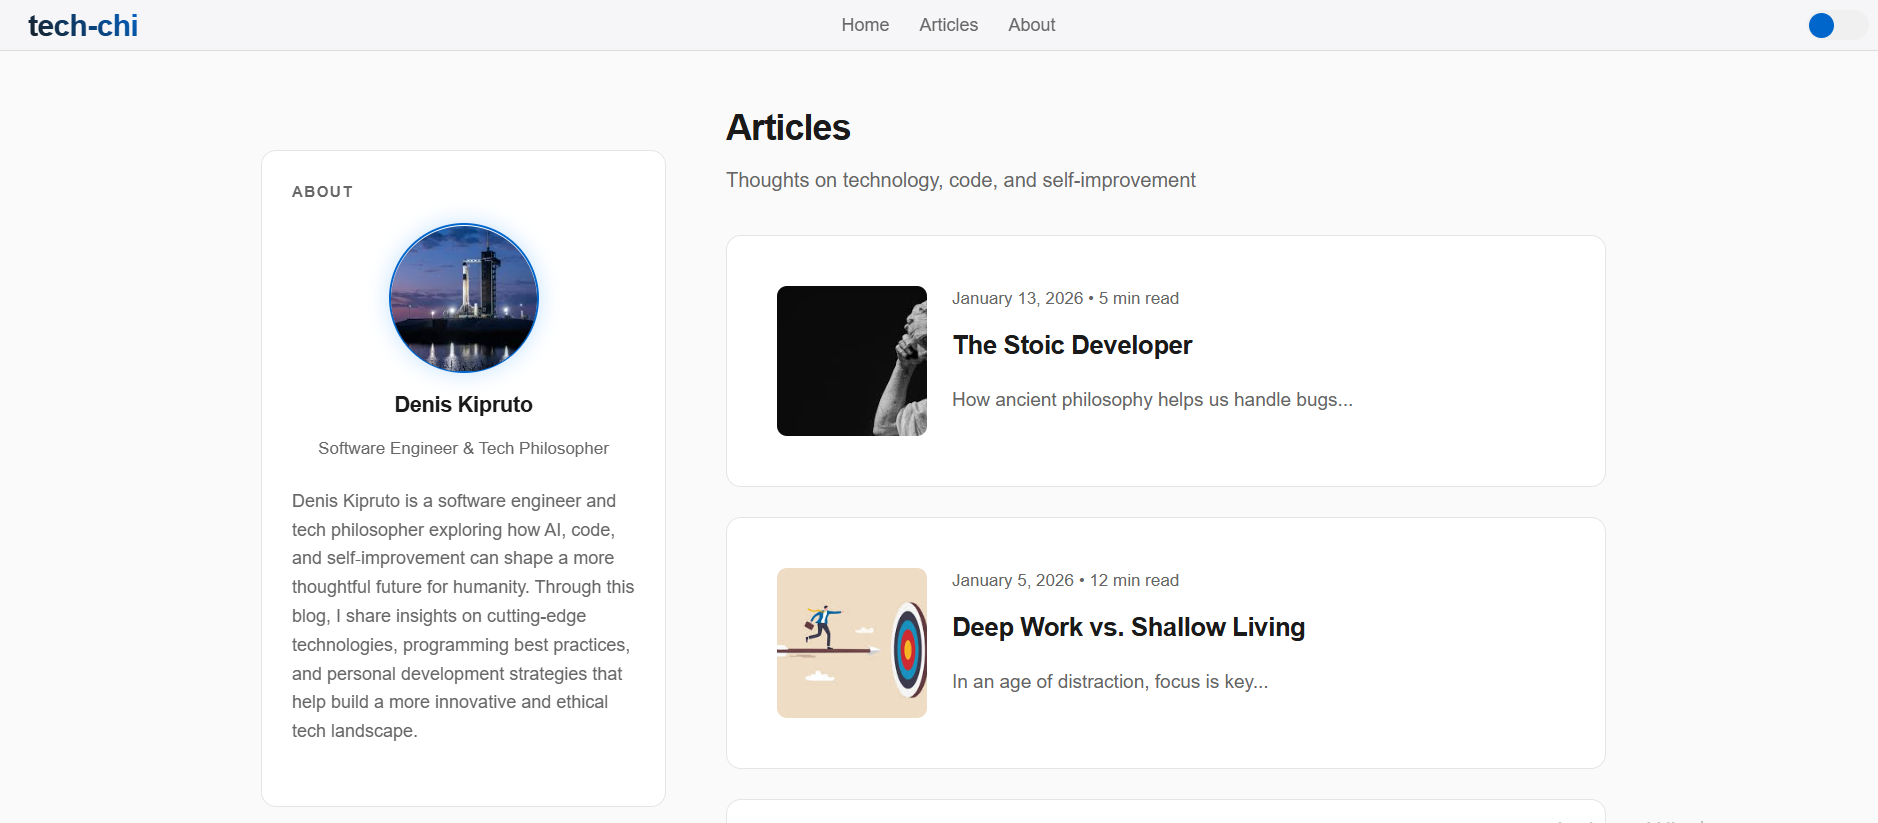
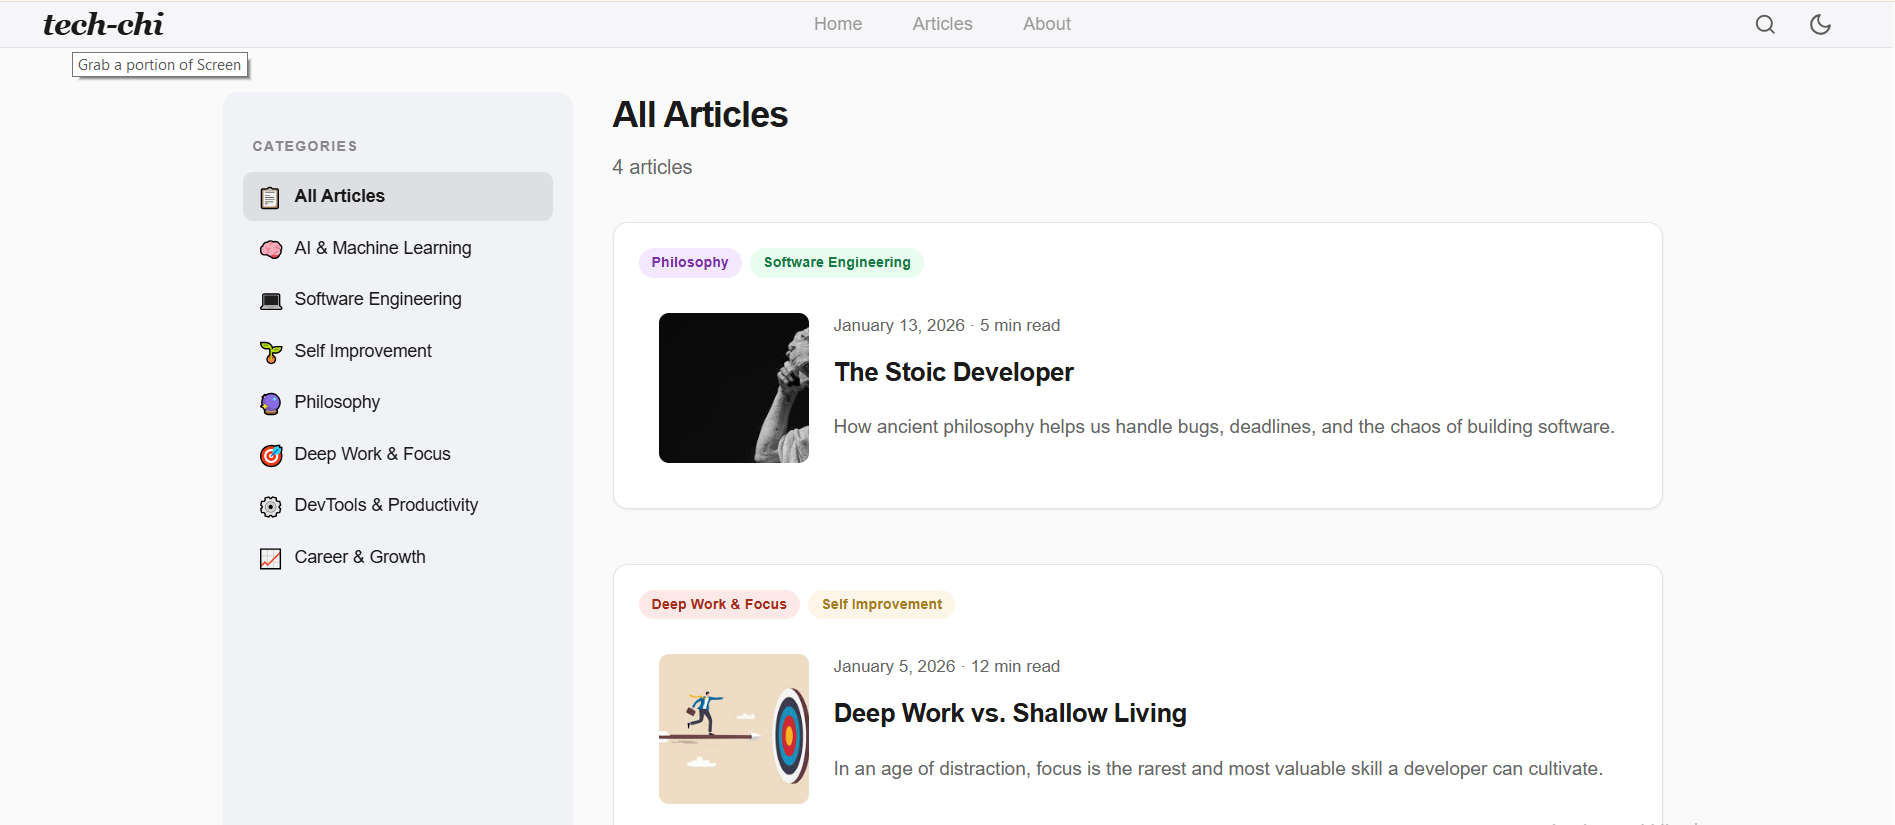
chore: add react-router-dom, update vite config and dependencies

diff --git a/vite.config.js b/vite.config.js
@@ -4,6 +4,9 @@ import react from '@vitejs/plugin-react'
 // https://vite.dev/config/
 export default defineConfig({
   plugins: [react()],
+  server: {
+    historyApiFallback: true,
+  },
   test: {
     environment: 'jsdom', // <--- This line is the fix
     globals: true,
